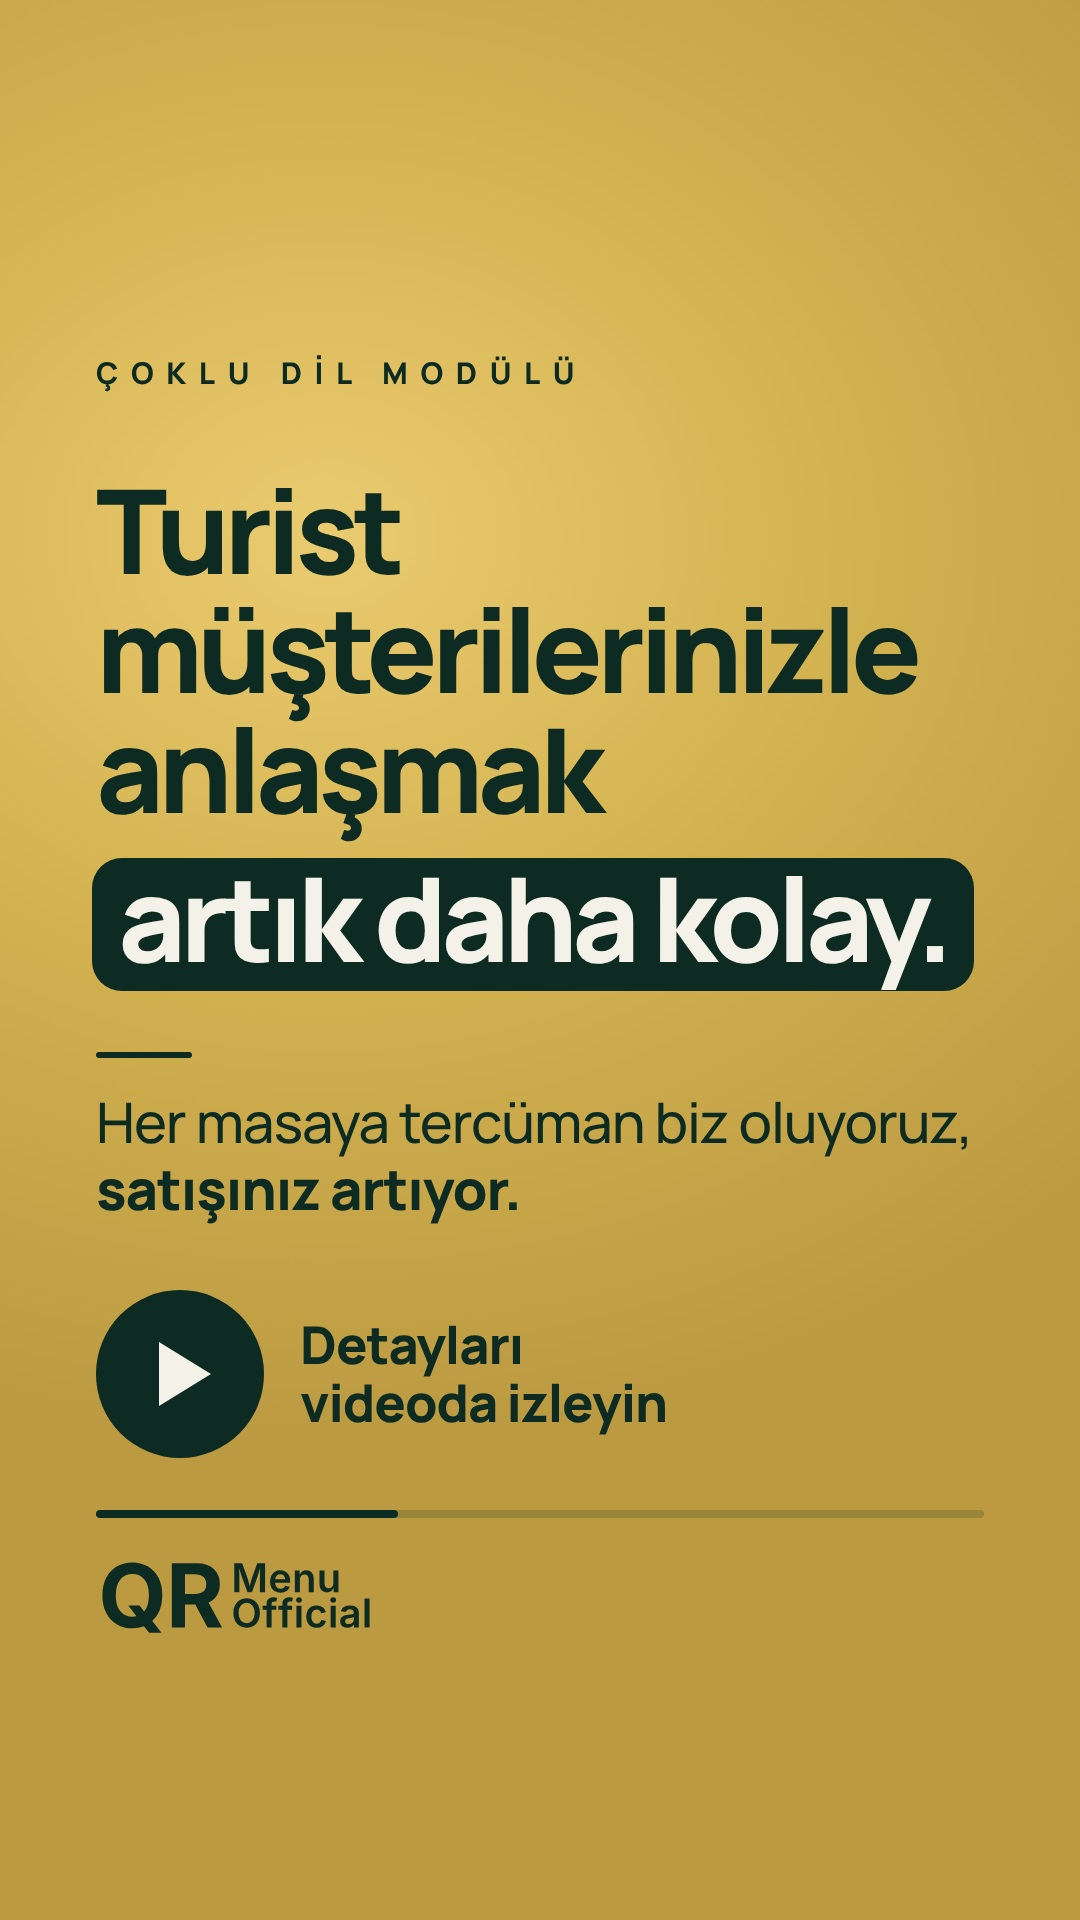
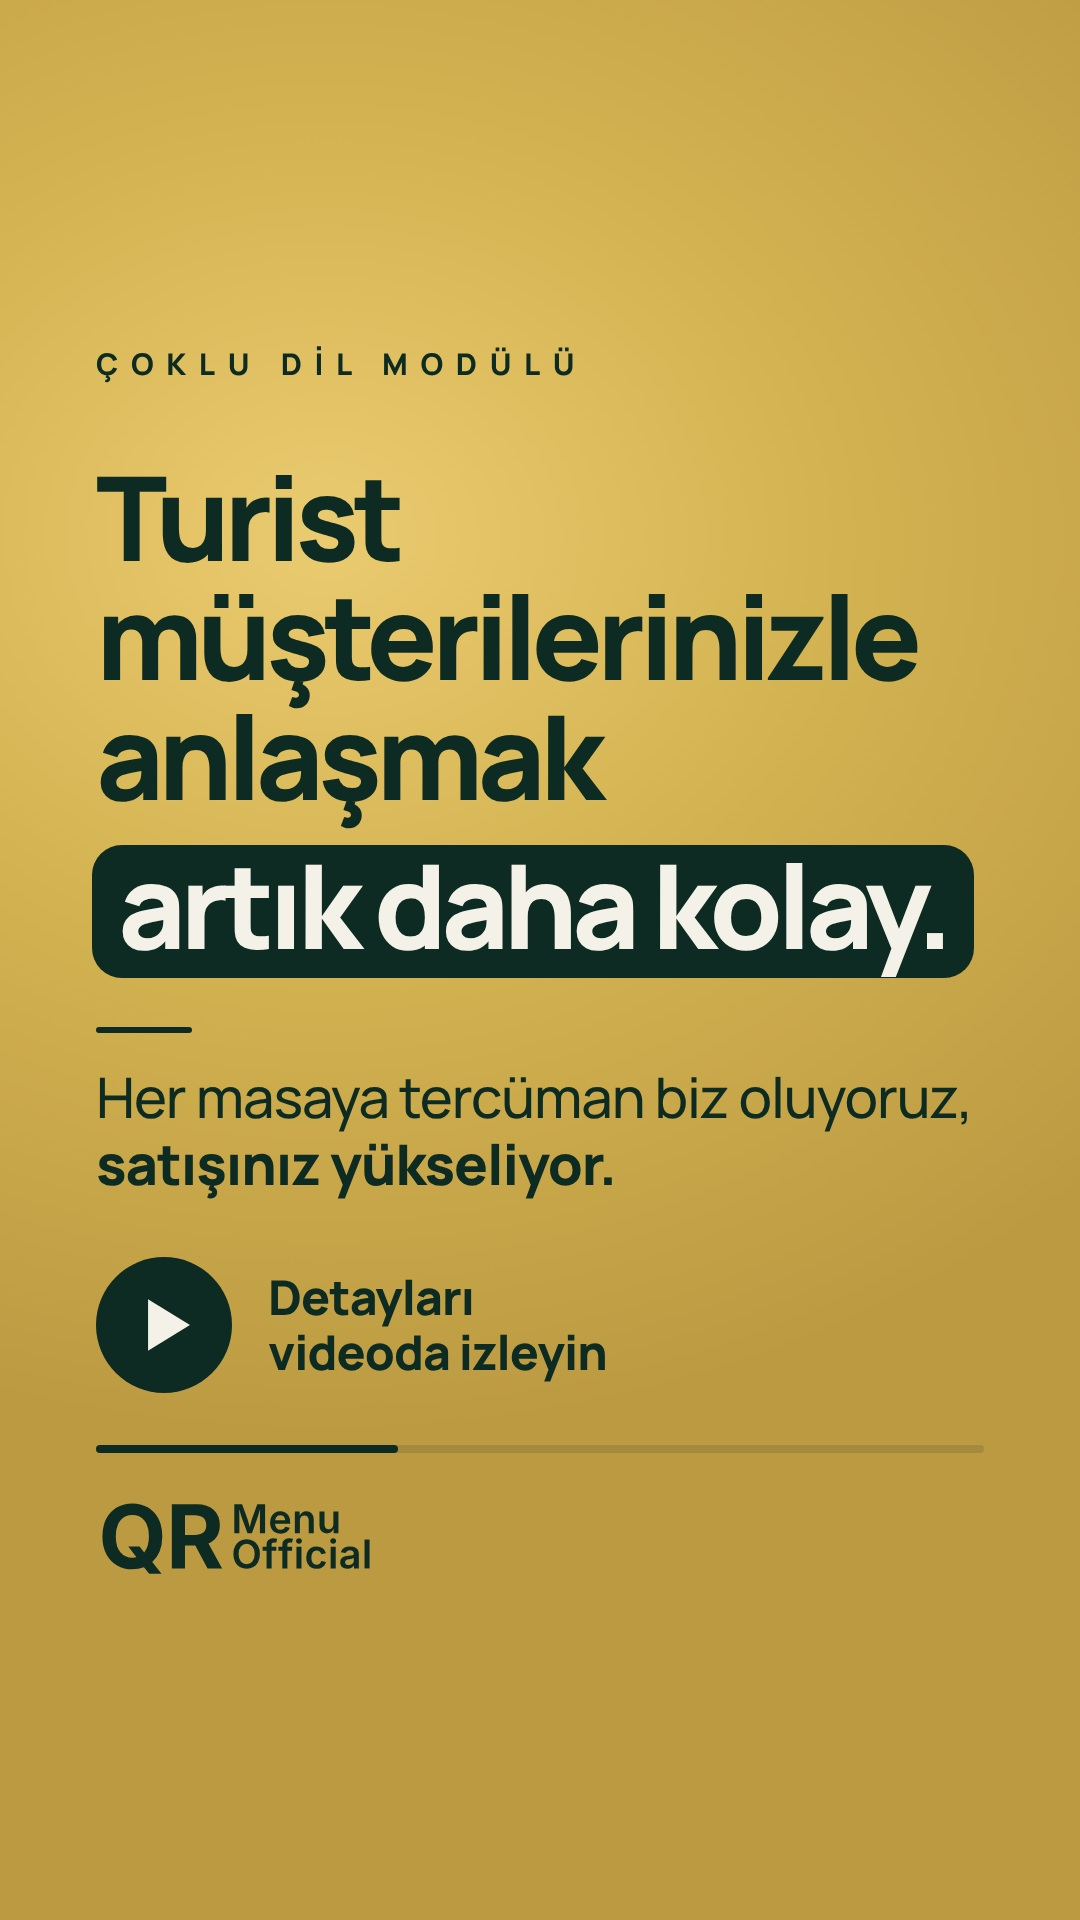
Reels kapağı: UX iyileştirme (ritim, denge, tekrar giderme)
Claude-Session: https://claude.ai/code/session_01FBw9rVwrniVjyFvtgVdFXq

diff --git a/analiz/video/kapak/kapak-video.html b/analiz/video/kapak/kapak-video.html
@@ -5,25 +5,26 @@
 *{box-sizing:border-box;margin:0}
 html,body{width:1080px;height:1920px;overflow:hidden;font-family:Manrope,sans-serif;color:var(--y);
  background:radial-gradient(1100px 900px at 30% 28%,#EBCB70 0%,#D4B352 45%,#BC9A42 100%)}
-.lab{position:absolute;left:96px;top:352px;font-weight:800;font-size:30px;letter-spacing:.42em}
-.h{position:absolute;left:96px;top:470px;font-weight:800;letter-spacing:-.05em;line-height:1.02}
+.lab{position:absolute;left:96px;top:326px;font-weight:800;font-size:30px;letter-spacing:.42em}
+.h{position:absolute;left:96px;top:440px;font-weight:800;letter-spacing:-.05em;line-height:1.02}
 .h span{display:block;white-space:nowrap}
 .pill{display:inline-block;background:var(--y);color:var(--off);padding:0 26px 14px;border-radius:30px;line-height:1.02;margin-left:-4px}
-.play{position:absolute;left:96px;top:1290px;display:flex;align-items:center;gap:36px}
-.play .c{width:168px;height:168px;border-radius:50%;background:var(--y);display:grid;place-items:center}
+.play{position:absolute;left:96px;top:1240px;display:flex;align-items:center;gap:36px}
+.play .c{width:136px;height:136px;border-radius:50%;background:var(--y);display:grid;place-items:center}
 .play .c svg{margin-left:10px}
-.play .t{font-weight:800;font-size:52px;line-height:1.12;letter-spacing:-.02em}
-.bar{position:absolute;left:96px;width:888px;top:1510px;height:8px;border-radius:4px;background:#0D2B2230}
+.play .t{font-weight:800;font-size:48px;line-height:1.14;letter-spacing:-.02em}
+.bar{position:absolute;left:96px;width:888px;top:1428px;height:8px;border-radius:4px;background:#0D2B2224}
 .bar i{display:block;height:100%;width:34%;border-radius:4px;background:var(--y)}
-.logo{position:absolute;left:96px;top:1556px}.logo svg{width:280px;display:block}
-.rule{position:absolute;left:96px;top:1052px;width:96px;height:6px;border-radius:3px;background:var(--y)}
-.s{position:absolute;left:96px;top:1088px;font-size:56px;line-height:1.2;letter-spacing:-.02em;font-weight:500}
+.logo{position:absolute;left:96px;top:1480px}.logo svg{width:280px;display:block}
+.rule{position:absolute;left:96px;top:1010px;width:96px;height:6px;border-radius:3px;background:var(--y)}
+.s{position:absolute;left:96px;top:1046px;font-size:56px;line-height:1.2;letter-spacing:-.02em;font-weight:500}
 .s b{font-weight:800}
+body>div{margin-top:17px}
 </style></head><body>
 <div class="lab">ÇOKLU DİL MODÜLÜ</div>
 <div class="h" id="H"><span>Turist</span><span>müşterilerinizle</span><span>anlaşmak</span><span style="margin-top:30px"><b class="pill">artık daha kolay.</b></span></div>
-<div class="rule"></div><div class="s">Her masaya tercüman biz oluyoruz,<br><b>satışınız artıyor.</b></div>
-<div class="play"><div class="c"><svg width="64" height="72" viewBox="0 0 64 72"><path d="M6 4 L58 36 L6 68 Z" fill="#F4F1E8"/></svg></div><div class="t">Detayları<br>videoda izleyin</div></div>
+<div class="rule"></div><div class="s">Her masaya tercüman biz oluyoruz,<br><b>satışınız yükseliyor.</b></div>
+<div class="play"><div class="c"><svg width="52" height="58" viewBox="0 0 64 72"><path d="M6 4 L58 36 L6 68 Z" fill="#F4F1E8"/></svg></div><div class="t">Detayları<br>videoda izleyin</div></div>
 <div class="bar"><i></i></div>
 <div class="logo"><svg xmlns="http://www.w3.org/2000/svg" viewBox="0 0 4363.25 1296.64" fill="none" role="img" aria-labelledby="logo-title">
 
